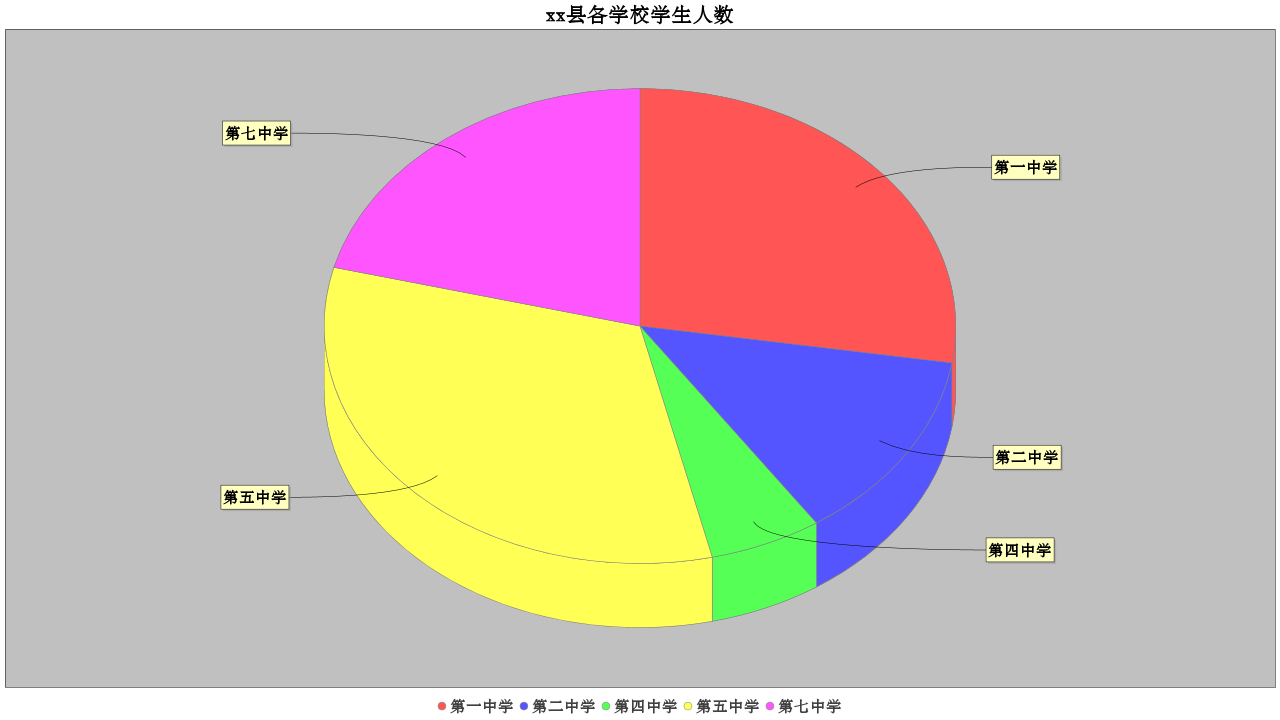
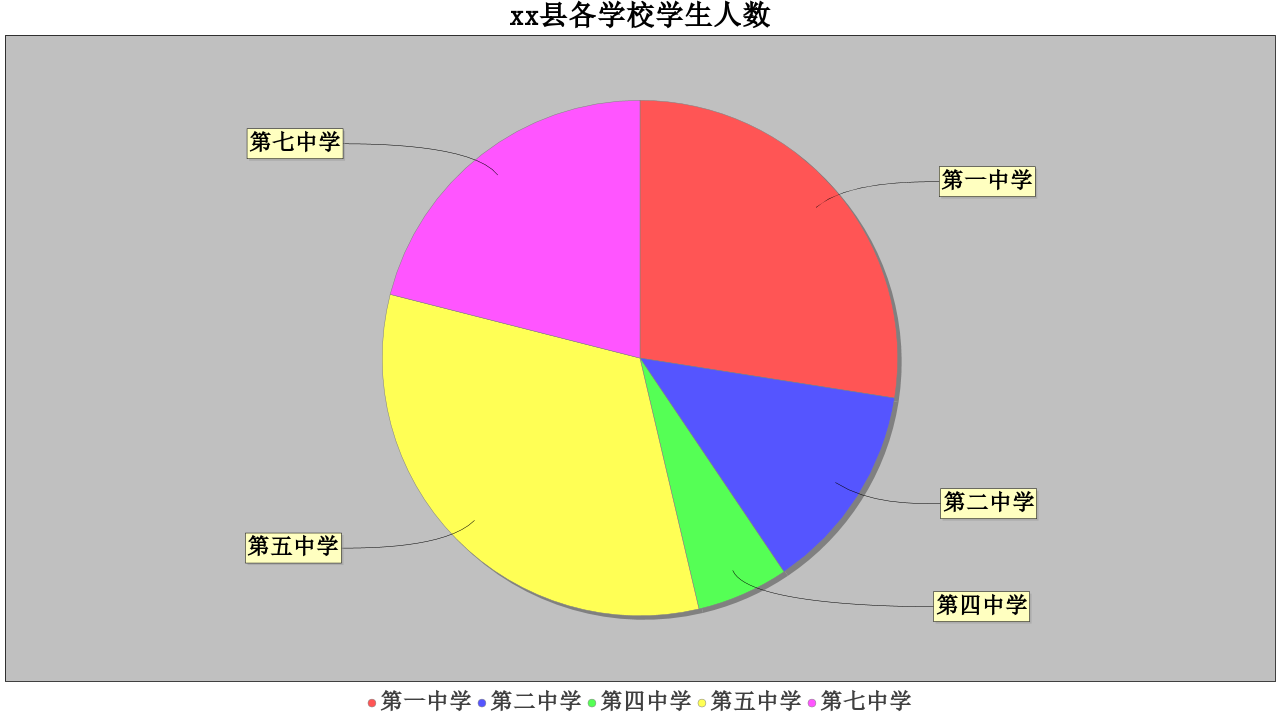
data_visualization_use_JFreechart

Changed region(s): [[0.1562, 0.1222, 0.8438, 0.8861], [0.0, 0.9472, 1.0, 1.0], [0.0, 0.0, 1.0, 0.0611]]

diff --git a/src/main/java/mao/Test2.java b/src/main/java/mao/Test2.java
@@ -19,17 +19,17 @@ import java.io.IOException;
 /**
  * Project name(项目名称)：数据可视化_JFreechart的使用
  * Package(包名): mao
- * Class(类名): Test1
+ * Class(类名): Test2
  * Author(作者）: mao
  * Author QQ：1296193245
  * GitHub：https://github.com/maomao124/
- * Date(创建日期)： 2023/6/8
- * Time(创建时间)： 22:22
+ * Date(创建日期)： 2023/6/9
+ * Time(创建时间)： 20:56
  * Version(版本): 1.0
  * Description(描述)： 无
  */
 
-public class Test1
+public class Test2
 {
     public static void main(String[] args) throws IOException
     {
@@ -41,6 +41,9 @@ public class Test1
         dataset.setValue("第四中学", 958);
         dataset.setValue("第五中学", 5433);
         dataset.setValue("第七中学", 3498);
+        dataset.setValue("第八中学", 2177);
+        dataset.setValue("第九中学", 374);
+        dataset.setValue("第十中学", 3511);
 
 
         StandardChartTheme standardChartTheme = new StandardChartTheme("CN");
@@ -57,10 +60,10 @@ public class Test1
         //参数3  是否开启图例
         //参数4  是否开启工具栏
         //参数5  是否开启url跳转
-        JFreeChart chart = ChartFactory.createPieChart("xx县各学校学生人数", dataset, true, false, false);
+        JFreeChart chart = ChartFactory.createPieChart3D("xx县各学校学生人数", dataset, true, true, true);
         //生成一张图表的图片文件
 
-        String path = "./chart1.png";
+        String path = "./chart2.png";
 
         ChartUtils.saveChartAsPNG(new File(path), chart, 1280, 720);
 
